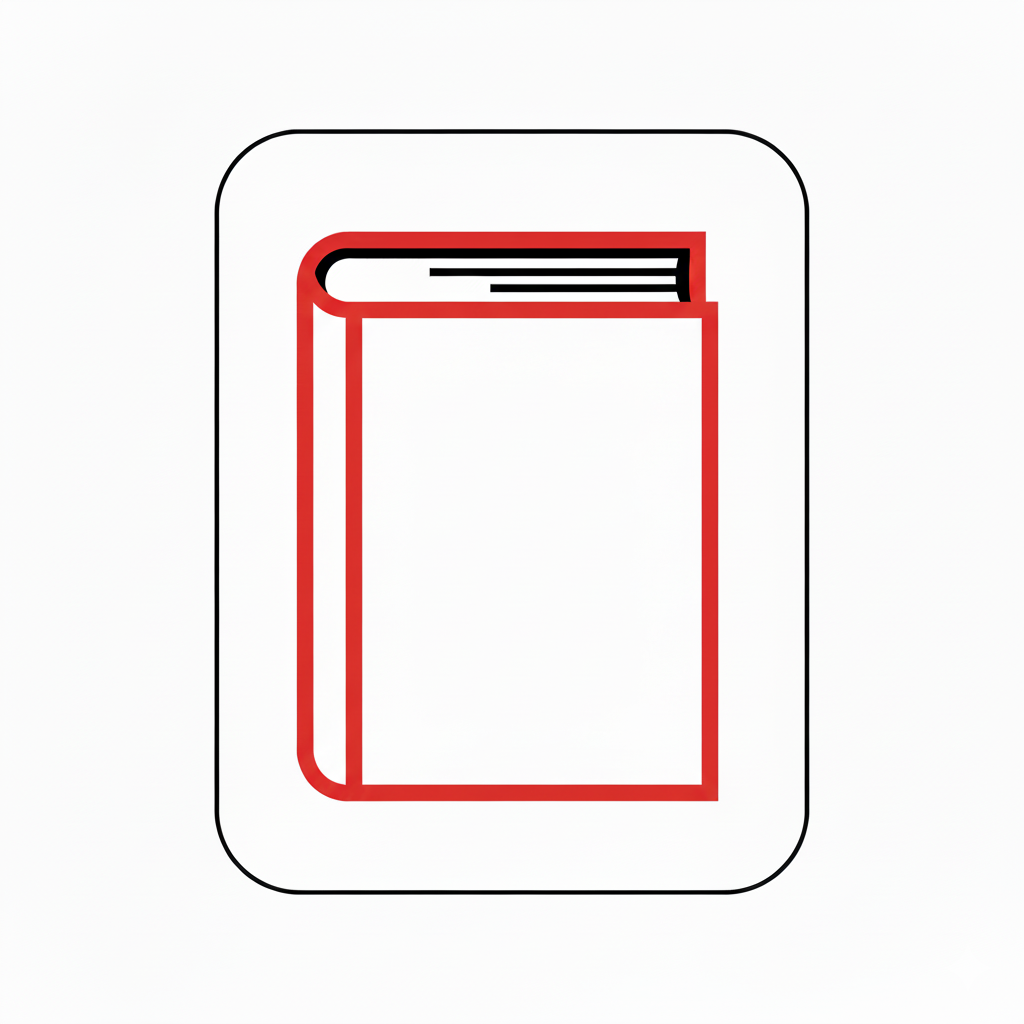
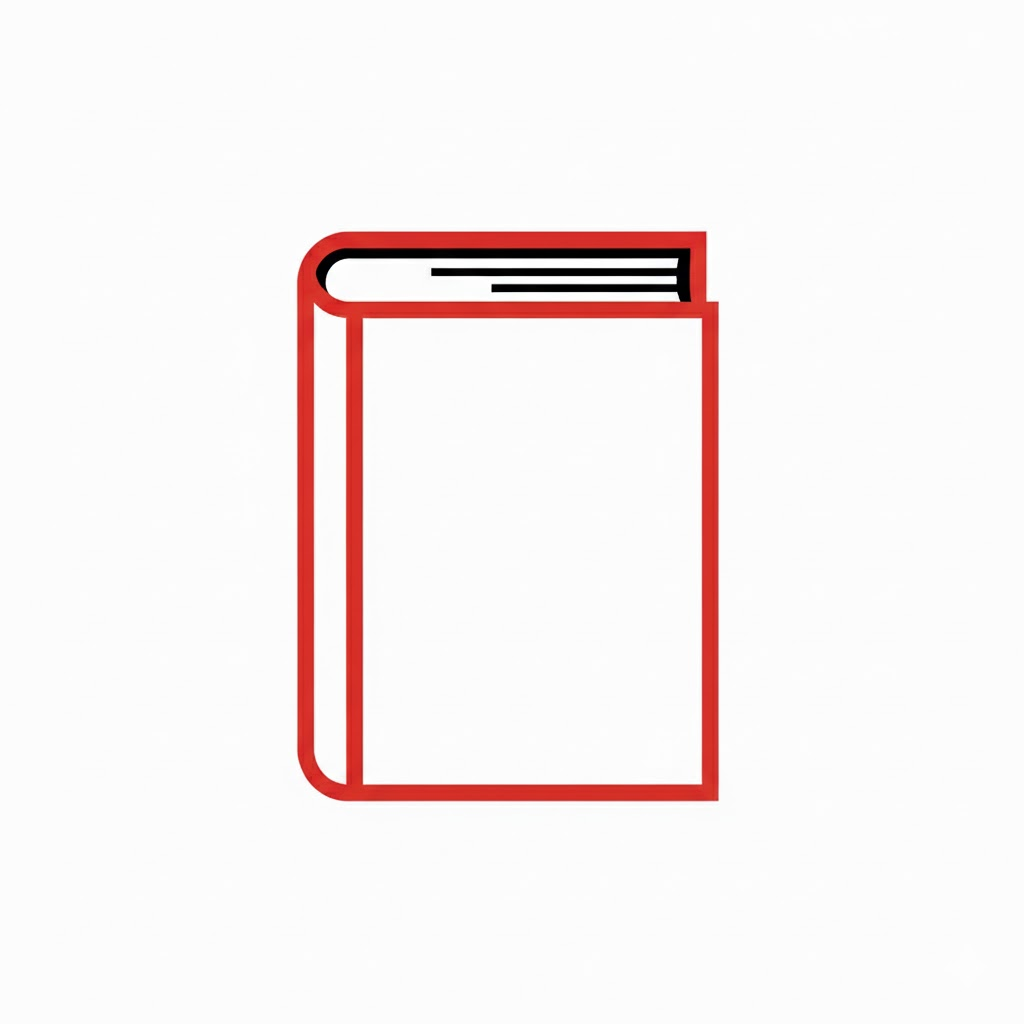
updated no book cover placeholder

diff --git a/src/content/drafts/my-e-bib.md b/src/content/drafts/my-e-bib.md
@@ -14,7 +14,7 @@ Due cose mi piacciono tantissimo: i libri e i database. E allora com'è possibil
 
 Allora mi sono deciso e ho impiegato qualche mattina per realizzare [questo progetto di cui sono moderatamente soddisfatto](https://trnq.eu/projects/biblioteque/). 
 
-Il mio principale problema è che compro tantissimi ebook, ho pochissimo tempo per leggere e finisco per dimenticarmi dei libri che ho comprato.   
+Il mio principale problema è che compro tantissimi ebook, ho pochissimo tempo per leggere e finisco per dimenticarmi dei libri che ho comprato, perdendomi la possiblità di leggere il libro giusto al momento giusto.   
 
 
 Devo dire la verità, non sono molto soddisfatto degli embedding multilingua. A un certo punto ho anche pensato di rifare tutti gli embedding utillizzando un altro modello, ma dopo essermi consultato con Antigravity ho rinunciato. 
